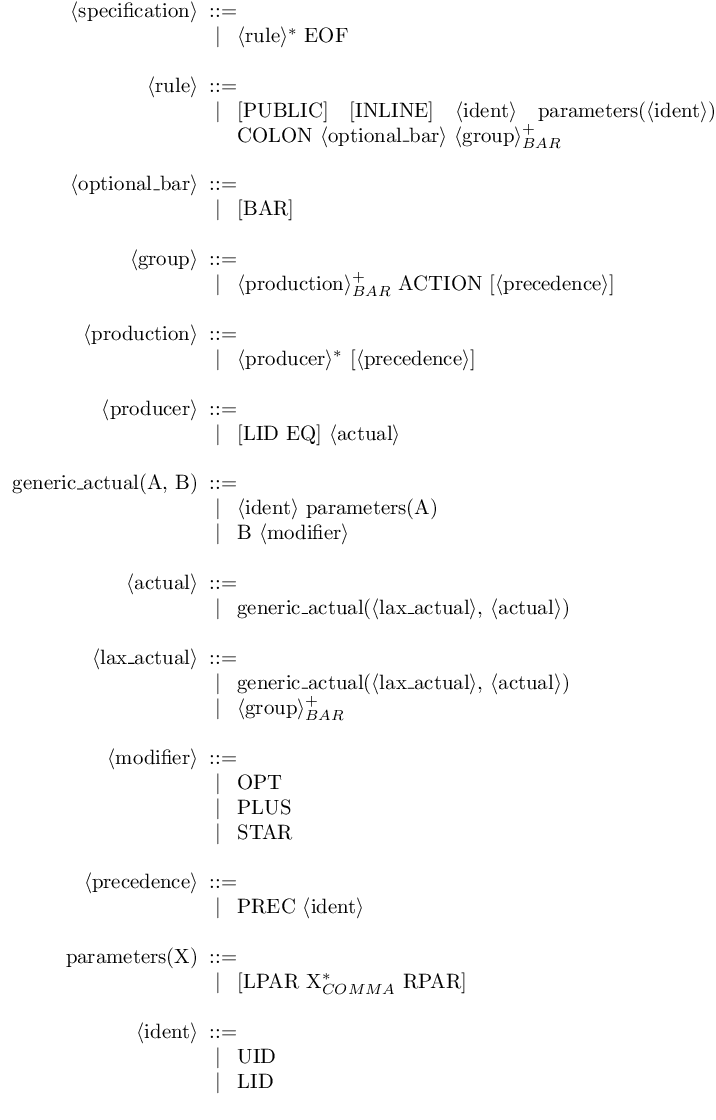
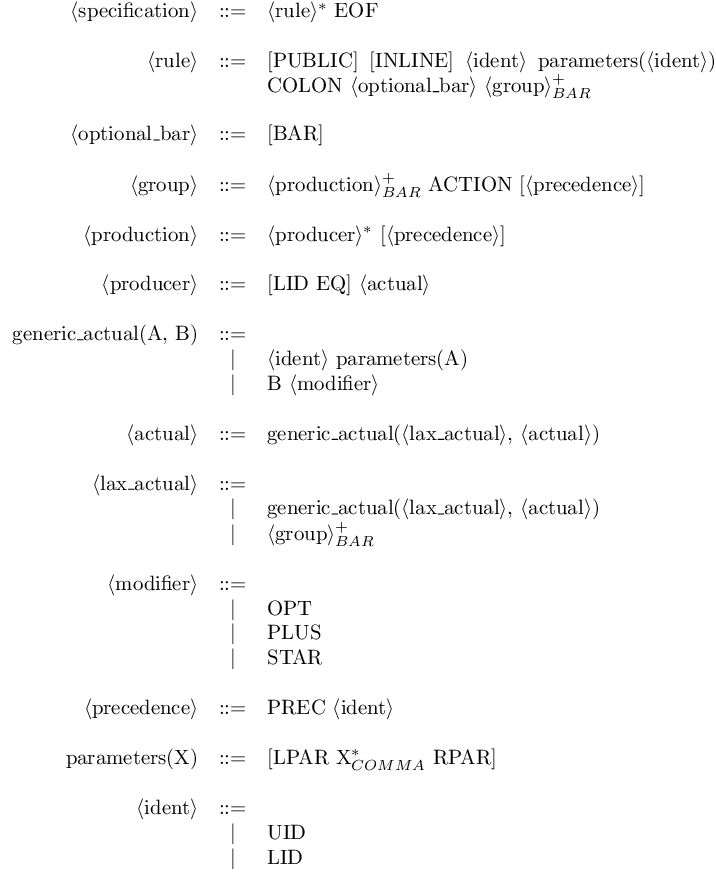
no bar for single-production rules

diff --git a/README.md b/README.md
@@ -71,20 +71,15 @@ my_rule(E,F,S1,S2):
 ```
 **MenhirBrav** outputs:
 ```
-my_option(X, Y) ::=
-  | [Y X]
+my_option(X, Y) ::= [Y X]
 
-my_list(A) ::=
-  | A*
+my_list(A) ::= A*
 
-my_nonempty_list(C) ::=
-  | C+
+my_nonempty_list(C) ::= C+
 
-my_separated_nonempty_list(X, Y) ::=
-  | X (Y X)*
+my_separated_nonempty_list(X, Y) ::= X (Y X)*
 
-my_separated_list(X, S) ::=
-  | [X (S X)*]
+my_separated_list(X, S) ::= [X (S X)*]
 
 my_rule(E, F, S1, S2) ::=
   | my_option(E, F)
@@ -120,30 +115,23 @@ Here are the different formats output obtained by **MenhirBrav** from its own [p
 
 #### Default
 ```
-<specification> ::=
-  | <rule>* EOF
+<specification> ::= <rule>* EOF
 
-<rule> ::=
-  | [PUBLIC] [INLINE] <ident> parameters(<ident>) COLON <optional_bar> <group> (BAR <group>)*
+<rule> ::= [PUBLIC] [INLINE] <ident> parameters(<ident>) COLON <optional_bar> <group> (BAR <group>)*
 
-<optional_bar> ::=
-  | [BAR]
+<optional_bar> ::= [BAR]
 
-<group> ::=
-  | <production> (BAR <production>)* ACTION [<precedence>]
+<group> ::= <production> (BAR <production>)* ACTION [<precedence>]
 
-<production> ::=
-  | <producer>* [<precedence>]
+<production> ::= <producer>* [<precedence>]
 
-<producer> ::=
-  | [LID EQ] <actual>
+<producer> ::= [LID EQ] <actual>
 
 generic_actual(A, B) ::=
   | <ident> parameters(A)
   | B <modifier>
 
-<actual> ::=
-  | generic_actual(<lax_actual>, <actual>)
+<actual> ::= generic_actual(<lax_actual>, <actual>)
 
 <lax_actual> ::=
   | generic_actual(<lax_actual>, <actual>)
@@ -154,11 +142,9 @@ generic_actual(A, B) ::=
   | PLUS
   | STAR
 
-<precedence> ::=
-  | PREC <ident>
+<precedence> ::= PREC <ident>
 
-parameters(X) ::=
-  | [LPAR [X (COMMA X)*] RPAR]
+parameters(X) ::= [LPAR [X (COMMA X)*] RPAR]
 
 <ident> ::=
   | UID
